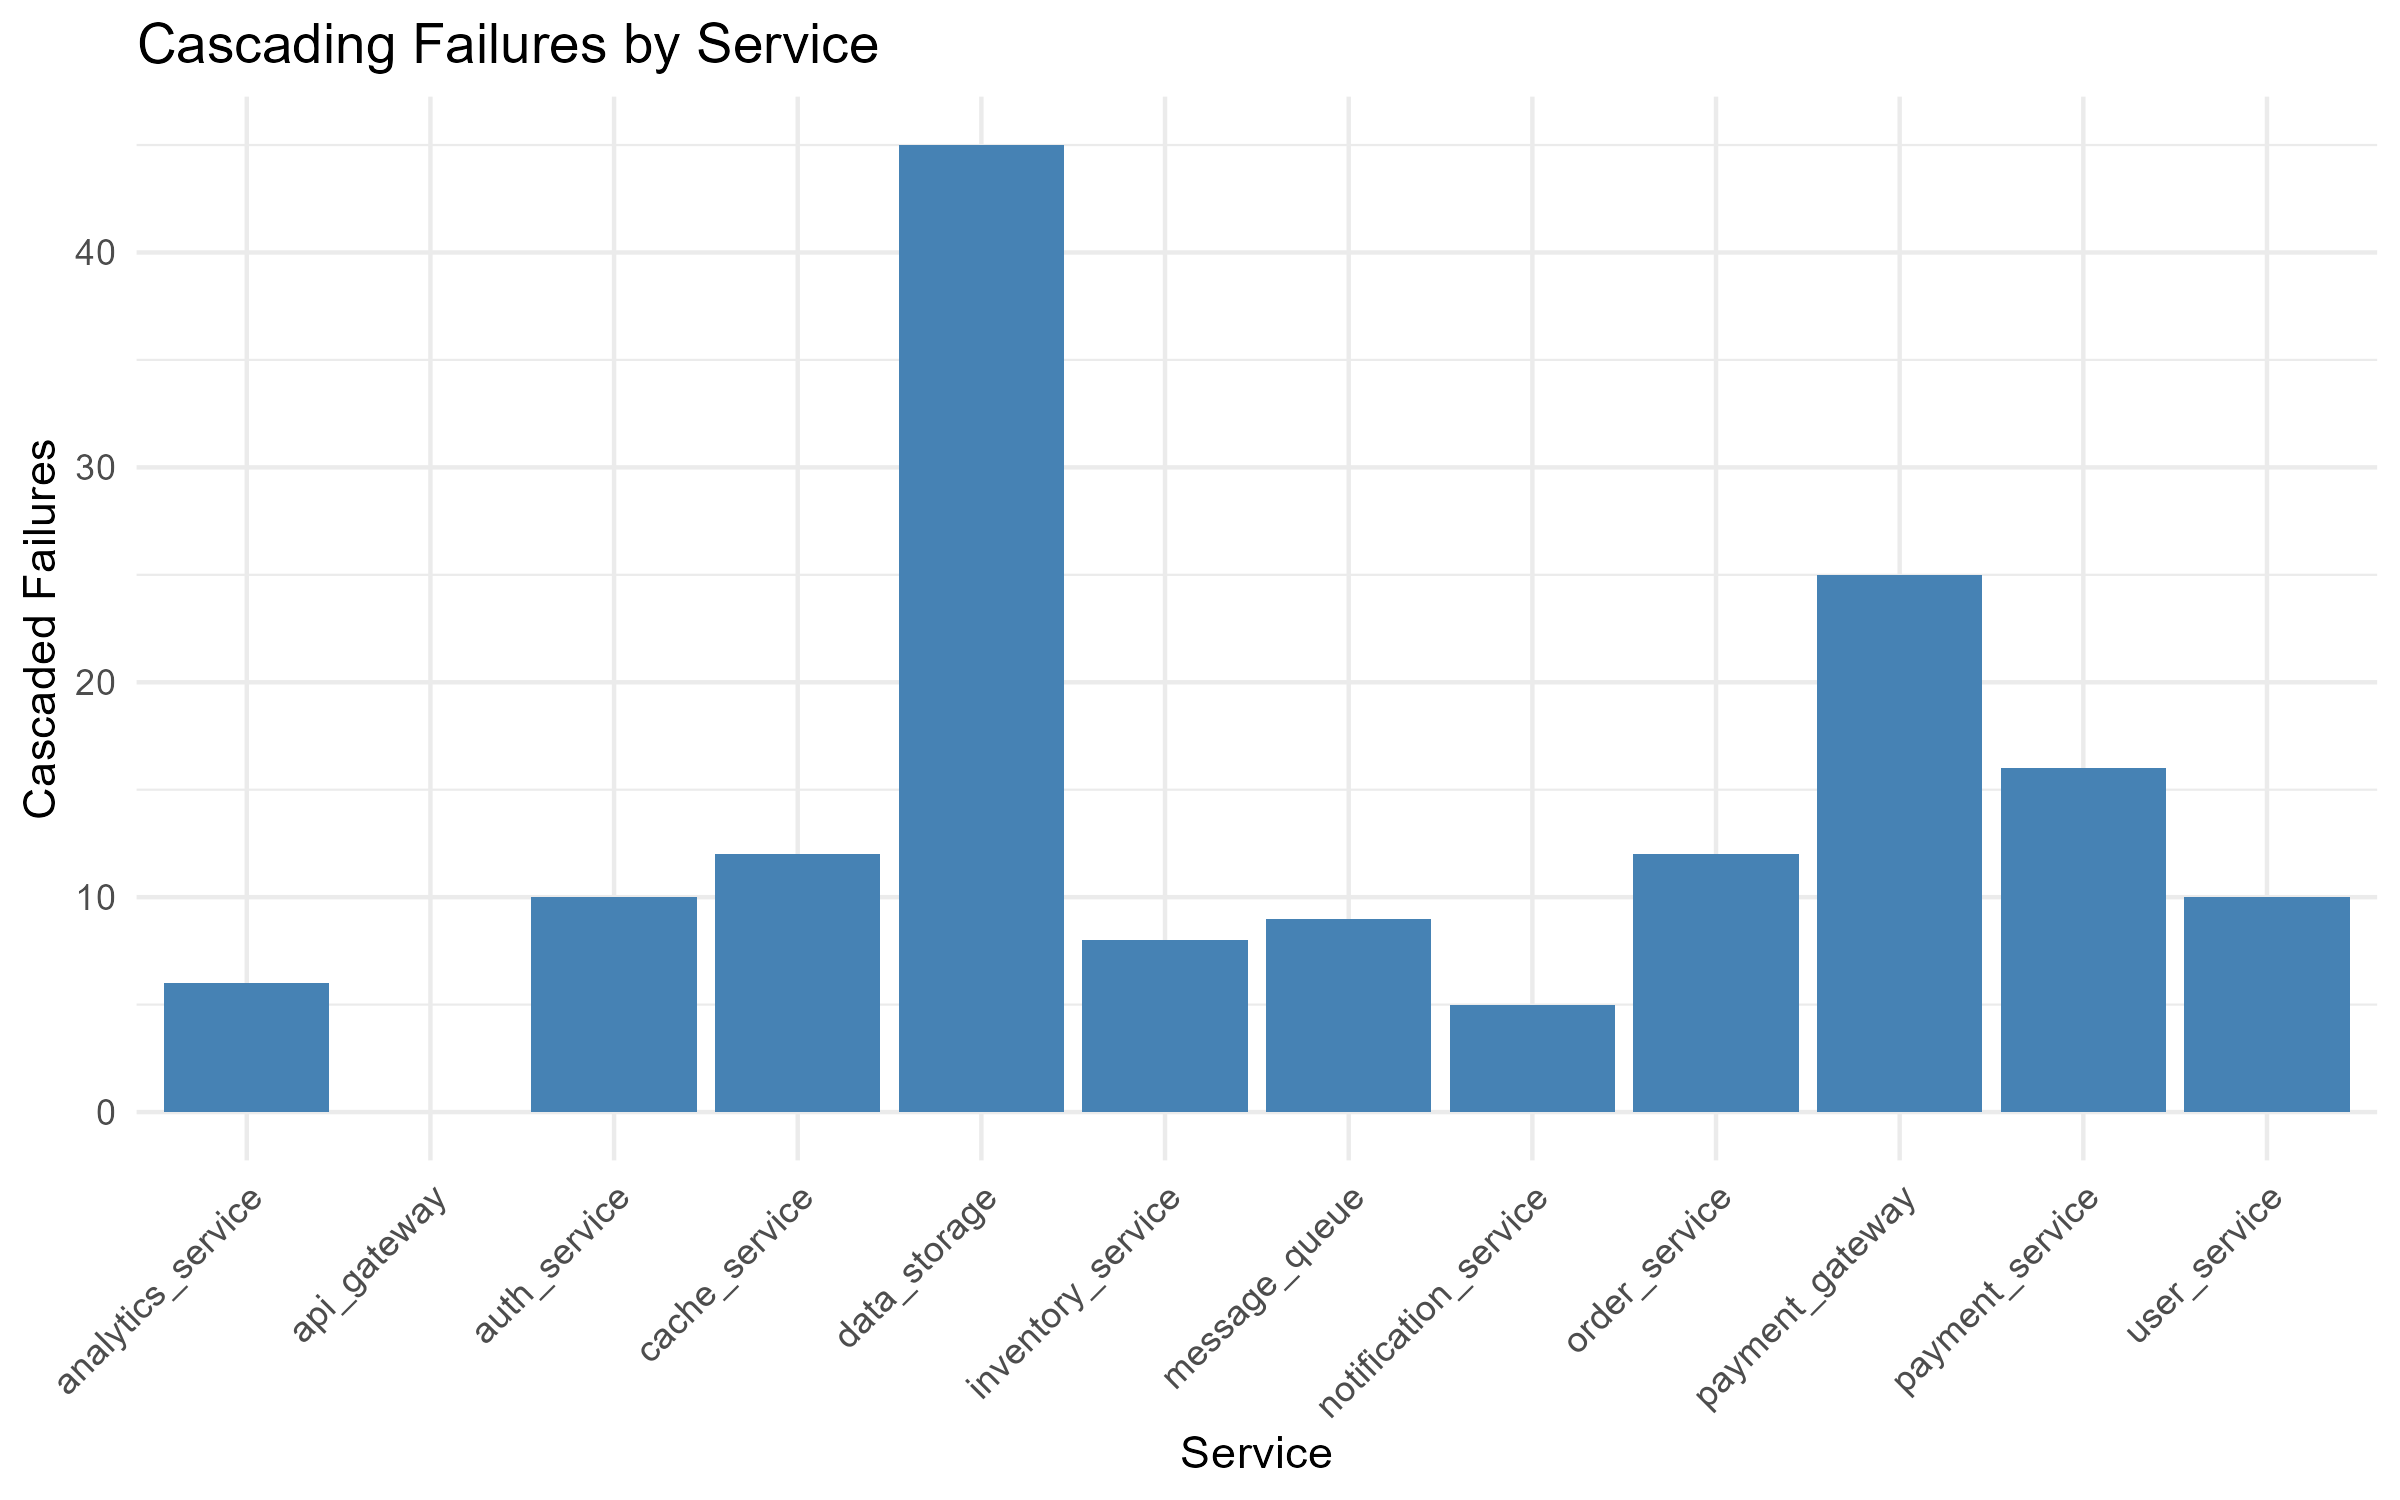
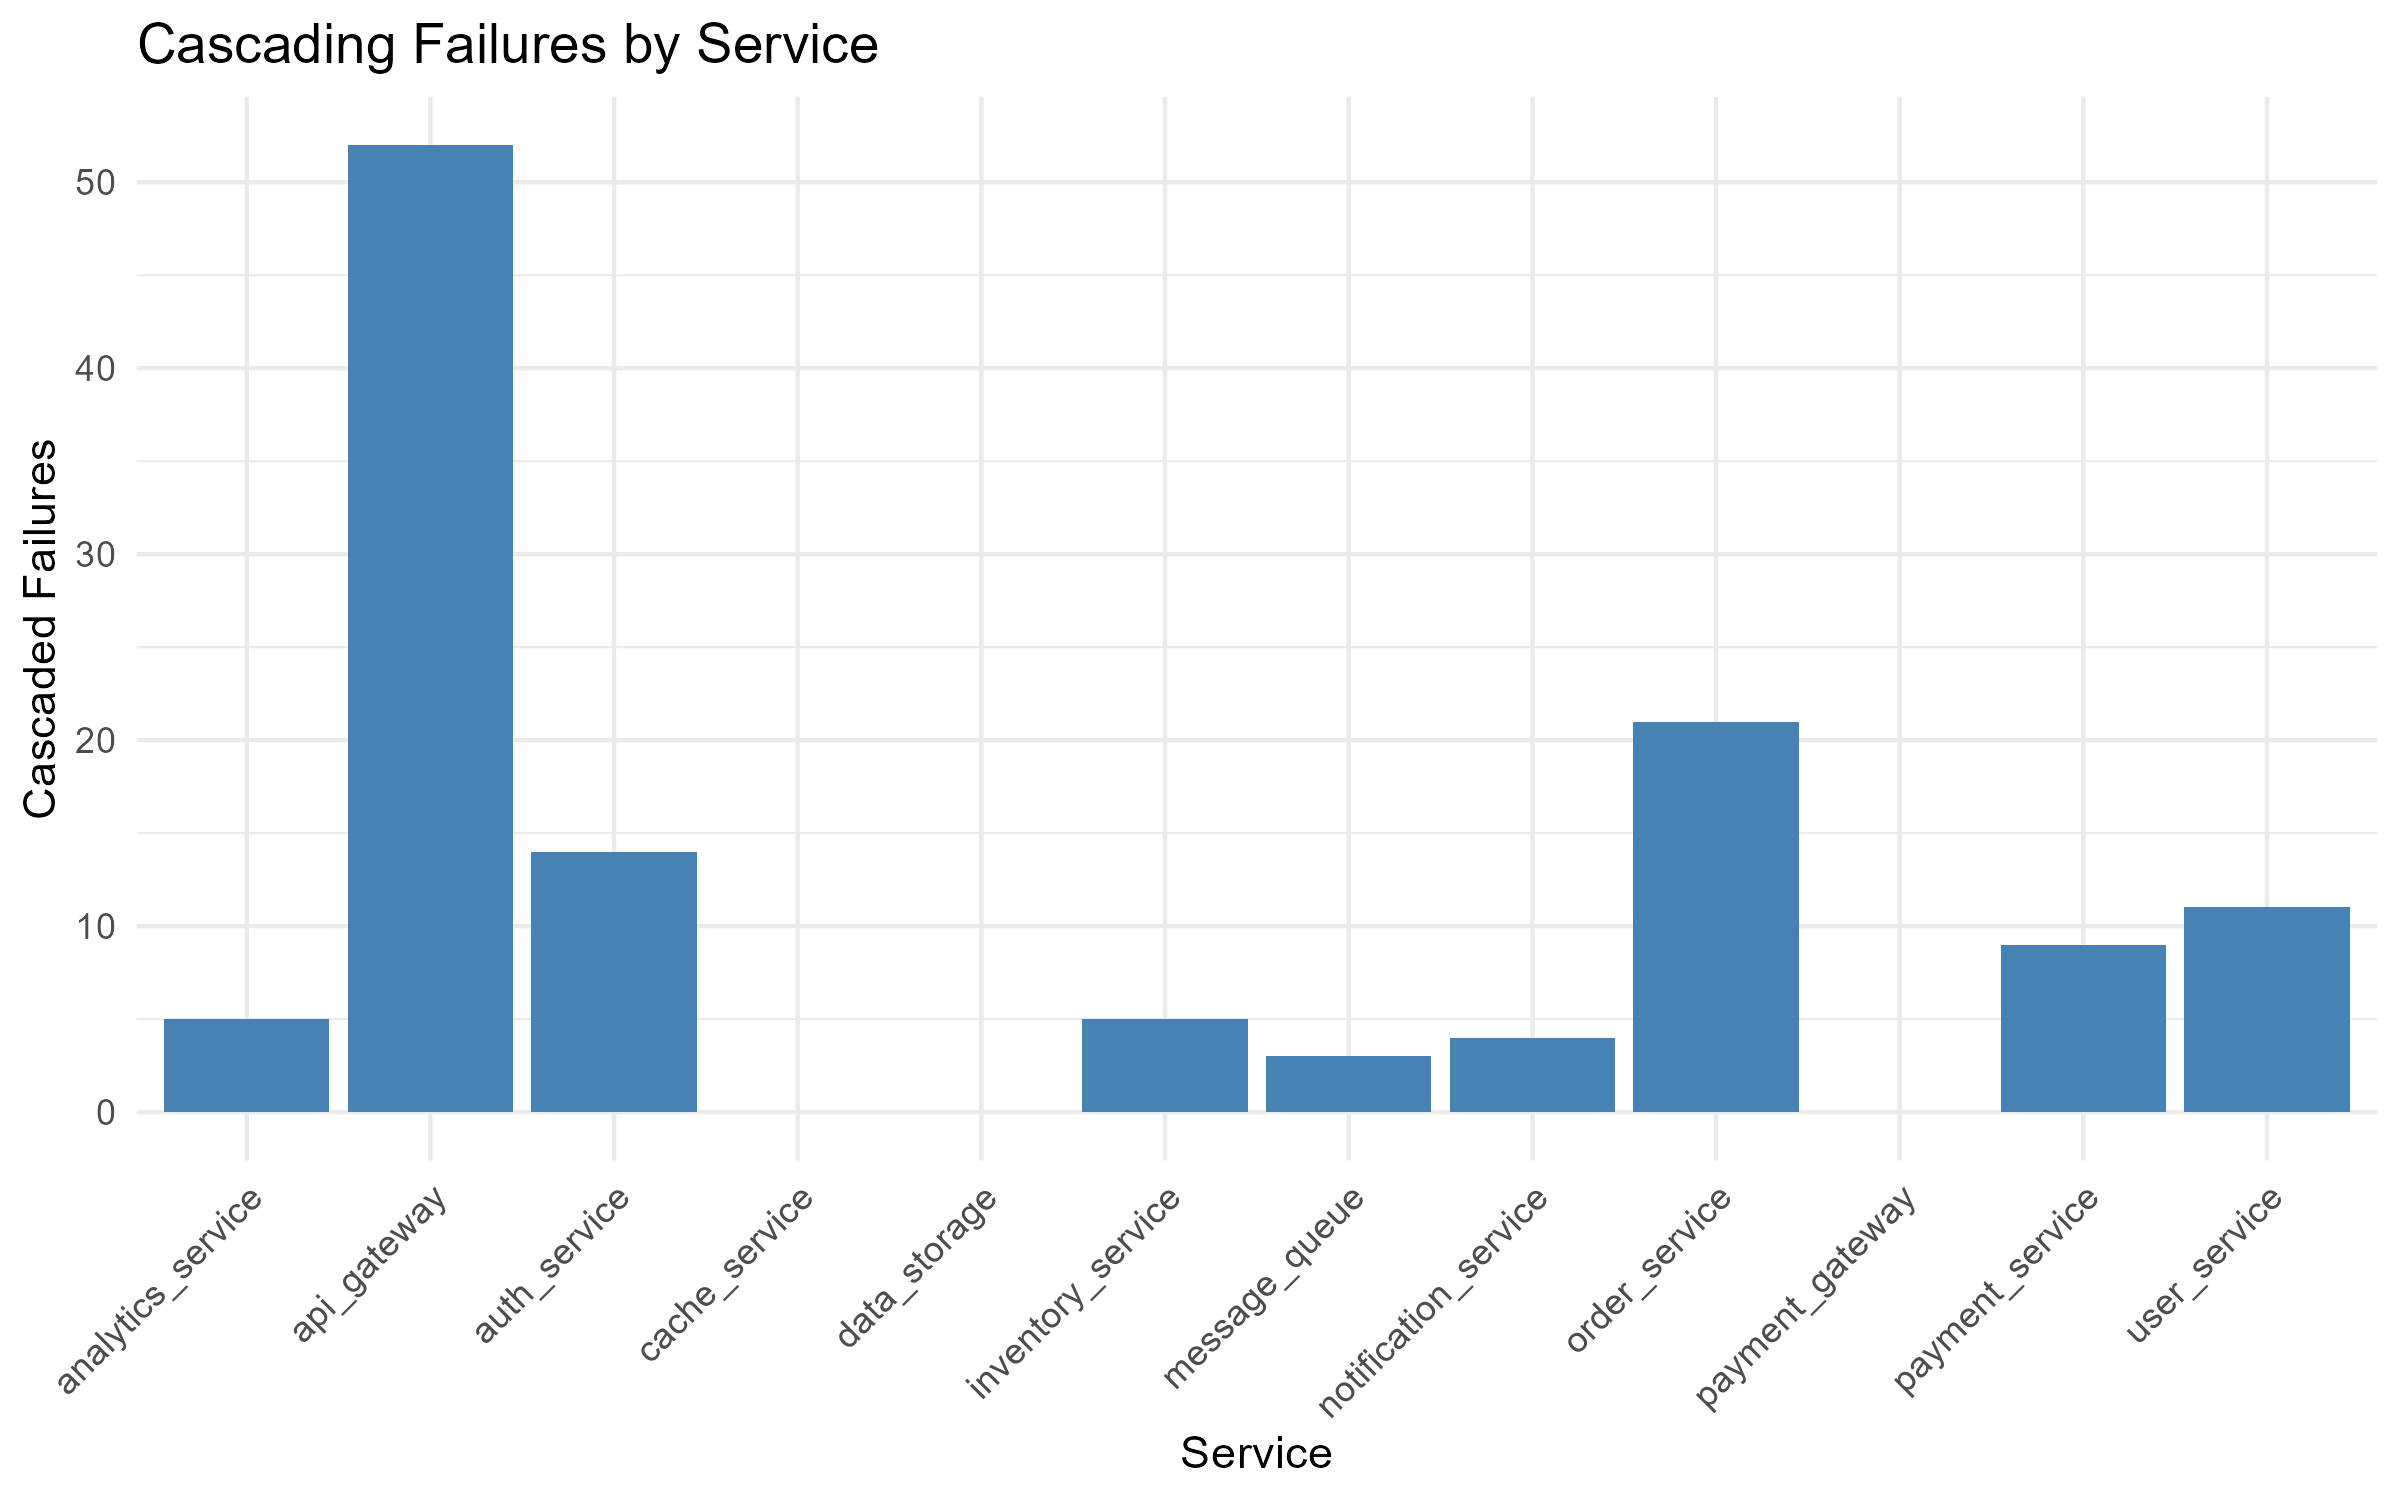
engine changes

diff --git a/simulator/src/main/java/org/example/Main.java b/simulator/src/main/java/org/example/Main.java
@@ -4,6 +4,10 @@ import org.example.engine.CSVLoader;
 import org.example.engine.FailureEngine;
 import org.example.model.MicroserviceGraph;
 import org.example.model.Service;
+
+import java.util.HashSet;
+import java.util.Set;
+
 import static org.example.engine.ExportResults.exportResults;
 
 public class Main {
@@ -19,24 +23,34 @@ public class Main {
 
         exportResults(graph, 1000);
         System.out.println("\n--- RESULTS ---");
-
         for (Service s : graph.services) {
 
-            double lambdaObserved = (double) s.totalFailures / 1000;
+            Set<Service> visited = new HashSet<>();
 
-            double mttrObserved =
-                    s.totalFailures == 0 ? 0 :
-                            (double) s.totalDowntime / s.totalFailures;
+            engine.propagateFailure(s, visited, true);
 
-            System.out.println(
-                    s.name +
-                            " | Direct: " + s.directFailures +
-                            " | Cascaded: " + s.cascadedFailures +
-                            " | Total: " + s.totalFailures +
-                            " | λ_obs: " + lambdaObserved +
-                            " | MTTR_obs: " + mttrObserved
-            );
+            System.out.println(s.name + " caused failures: " + (visited.size() - 1));
         }
-
+//        for (Service s : graph.services) {
+//
+//            double lambdaObserved = (double) s.totalFailures / 1000;
+//
+//            double mttrObserved =
+//                    s.totalFailures == 0 ? 0 :
+//                            (double) s.totalDowntime / s.totalFailures;
+//
+//            System.out.println(
+//                    s.name +
+//                            " | Direct: " + s.directFailures +
+//                            " | Cascaded: " + s.cascadedFailures +
+//                            " | Total: " + s.totalFailures +
+//                            " | λ_obs: " + lambdaObserved +
+//                            " | MTTR_obs: " + mttrObserved
+//            );
+//        }
+//        System.out.println(
+//                "Dependents of data_storage: " +
+//                        graph.getDependents(graph.getService("data_storage")).size()
+//        );
     }
 }

diff --git a/simulator/src/main/java/org/example/engine/FailureEngine.java b/simulator/src/main/java/org/example/engine/FailureEngine.java
@@ -24,37 +24,43 @@ public class FailureEngine {
 
             for (Service s : graph.services) {
 
-                // Step 1: direct failure
                 if (random.nextDouble() < s.failureRate) {
 
-                    s.directFailures++; // track direct failures
+                    s.directFailures++;
+                    s.totalFailures++;
+                    s.totalDowntime += s.mttr;
 
-                    propagateFailure(s, visited, false); // false = not cascaded
+                    // root failure → mark as NOT cascaded
+                    propagateFailure(s, visited, true);
                 }
             }
         }
     }
 
 
-    private void propagateFailure(Service service, Set<Service> visited, boolean cascaded) {
+    public void propagateFailure(Service service, Set<Service> visited, boolean isRoot) {
 
-        if (visited.contains(service))
-            return;
+        if (visited.contains(service)) return;
 
         visited.add(service);
 
-        service.totalFailures++;
-        service.totalDowntime += service.mttr;
-
-        if (cascaded)
+        // Only count cascaded if NOT root
+        if (!isRoot) {
             service.cascadedFailures++;
+            service.totalFailures++;
+            service.totalDowntime += service.mttr;
+        }
 
-        for (Edge e : service.dependencies) {
+        // Reverse dependency propagation
+        for (Edge e : graph.getDependents(service)) {
 
-            if (random.nextDouble() < e.propagationProbability) {
+            Service dependent = e.target;
 
-                propagateFailure(e.target, visited, true);
+            if (!visited.contains(dependent)) {
 
+                if (random.nextDouble() < e.propagationProbability) {
+                    propagateFailure(dependent, visited, false);
+                }
             }
         }
     }

diff --git a/simulator/src/main/java/org/example/model/MicroserviceGraph.java b/simulator/src/main/java/org/example/model/MicroserviceGraph.java
@@ -1,22 +1,21 @@
 package org.example.model;
 
 import java.util.ArrayList;
+import java.util.HashMap;
 import java.util.List;
+import java.util.Map;
 
 public class MicroserviceGraph {
 
     public List<Service> services = new ArrayList<>();
 
+    // Reverse dependencies: who depends on me
+    private Map<Service, List<Edge>> reverseDependencies = new HashMap<>();
+
     public void addService(Service s) {
         services.add(s);
     }
 
-    // Add dependency edge
-    public void addDependency(Service from, Service to, double probability) {
-        from.dependencies.add(new Edge(to, probability));
-    }
-
-    // Find service by name
     public Service getService(String name) {
         for (Service s : services) {
             if (s.name.equals(name)) {
@@ -26,22 +25,20 @@ public class MicroserviceGraph {
         return null;
     }
 
-    // Return services that depend on the given service
-    public List<Service> getDependents(Service service) {
+    public void addDependency(Service source, Service target, double probability) {
 
-        List<Service> dependents = new ArrayList<>();
+        // forward (optional)
+        source.dependencies.add(new Edge(target, probability));
 
-        for (Service s : services) {
-            for (Edge e : s.dependencies) {
+        // reverse (THIS is what matters)
+        reverseDependencies
+                .computeIfAbsent(target, k -> new ArrayList<>())
+                .add(new Edge(source, probability));
+    }
 
-                if (e.target.equals(service)) {
-                    dependents.add(s);
-                }
-
-            }
-        }
-
-        return dependents;
+    // THIS is what we will use for propagation
+    public List<Edge> getDependents(Service service) {
+        return reverseDependencies.getOrDefault(service, new ArrayList<>());
     }
 
 }

diff --git a/simulator/src/main/java/org/example/engine/CSVLoader.java b/simulator/src/main/java/org/example/engine/CSVLoader.java
@@ -62,7 +62,16 @@ public class CSVLoader {
                     probability
             );
         }
+        System.out.println(
+                "Dependents of data_storage: " +
+                        graph.getDependents(graph.getService("data_storage")).size()
+        );
+        System.out.println(
+                "Dependents of data_storage: " +
+                        graph.getDependents(graph.getService("data_storage")).size()
+        );
 
         br.close();
     }
+
 }

diff --git a/simulator/src/main/java/org/example/model/Service.java b/simulator/src/main/java/org/example/model/Service.java
@@ -22,5 +22,17 @@ public class Service {
         this.failureRate = failureRate;
         this.mttr = mttr;
     }
+    @Override
+    public boolean equals(Object o) {
+        if (this == o) return true;
+        if (!(o instanceof Service)) return false;
+        Service s = (Service) o;
+        return name.equals(s.name);
+    }
+
+    @Override
+    public int hashCode() {
+        return name.hashCode();
+    }
 }
 
